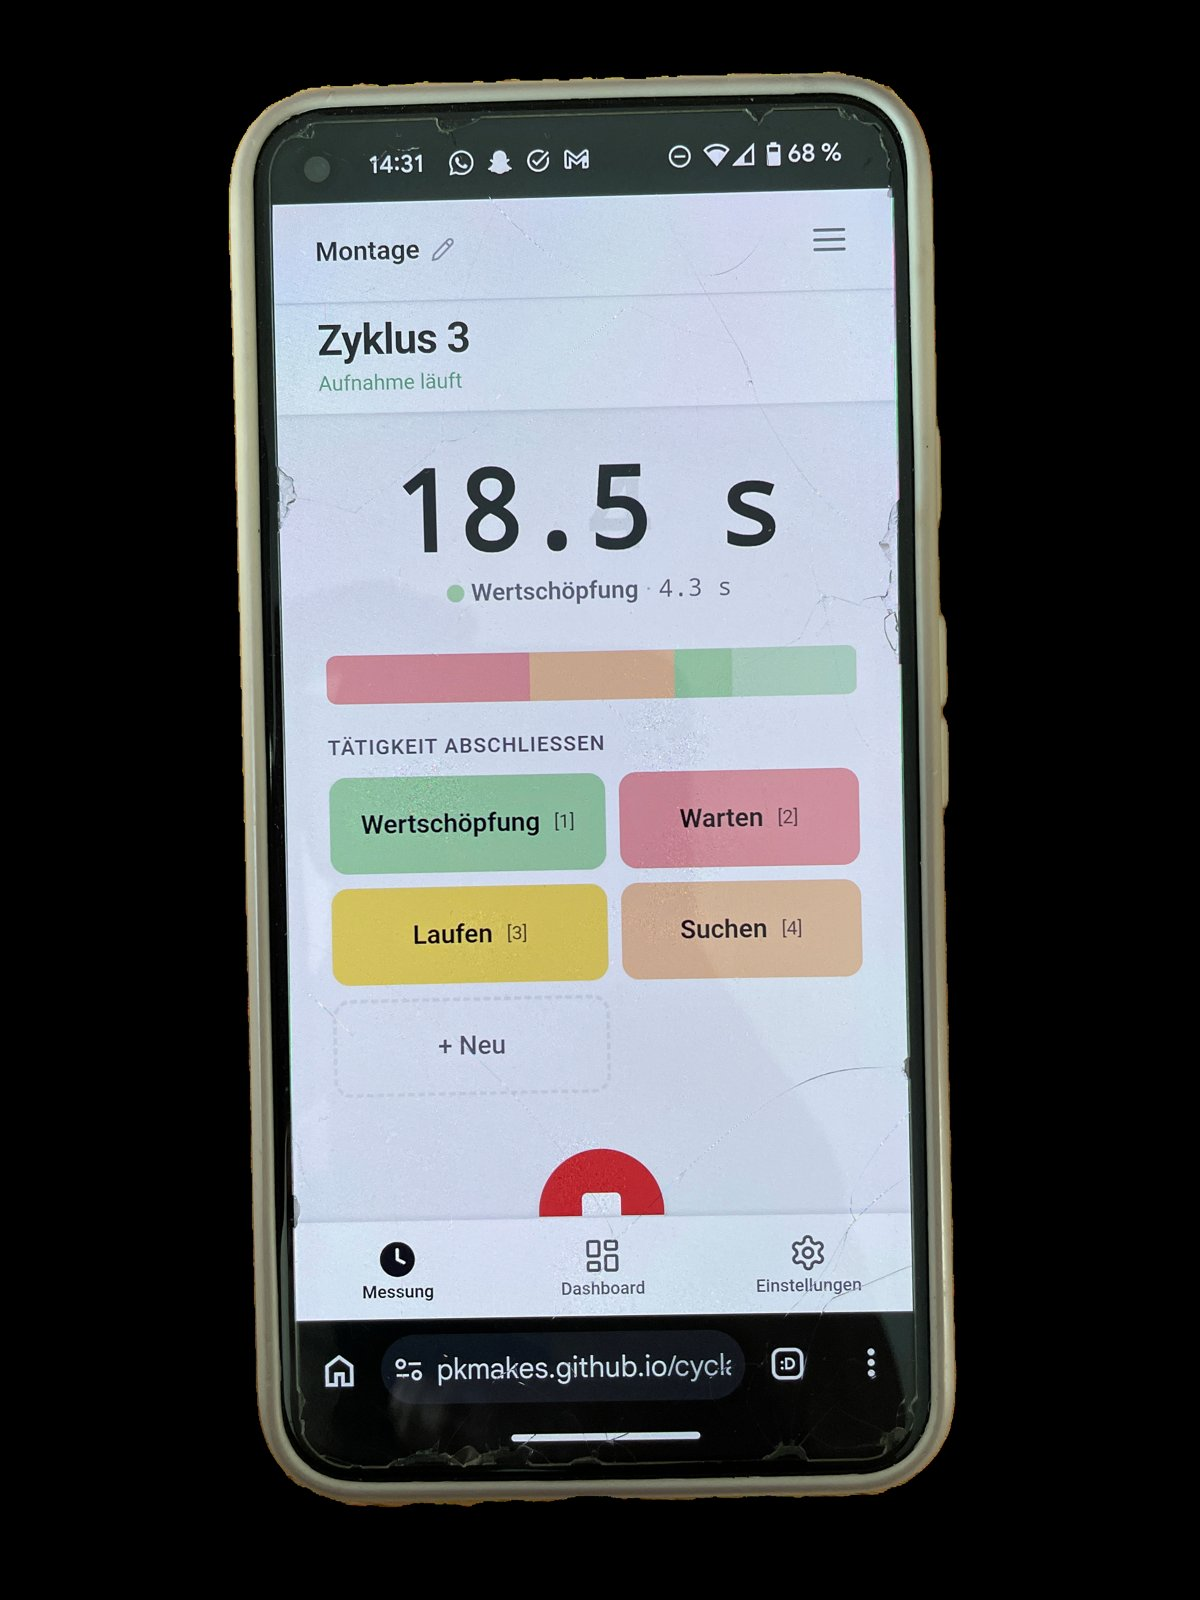
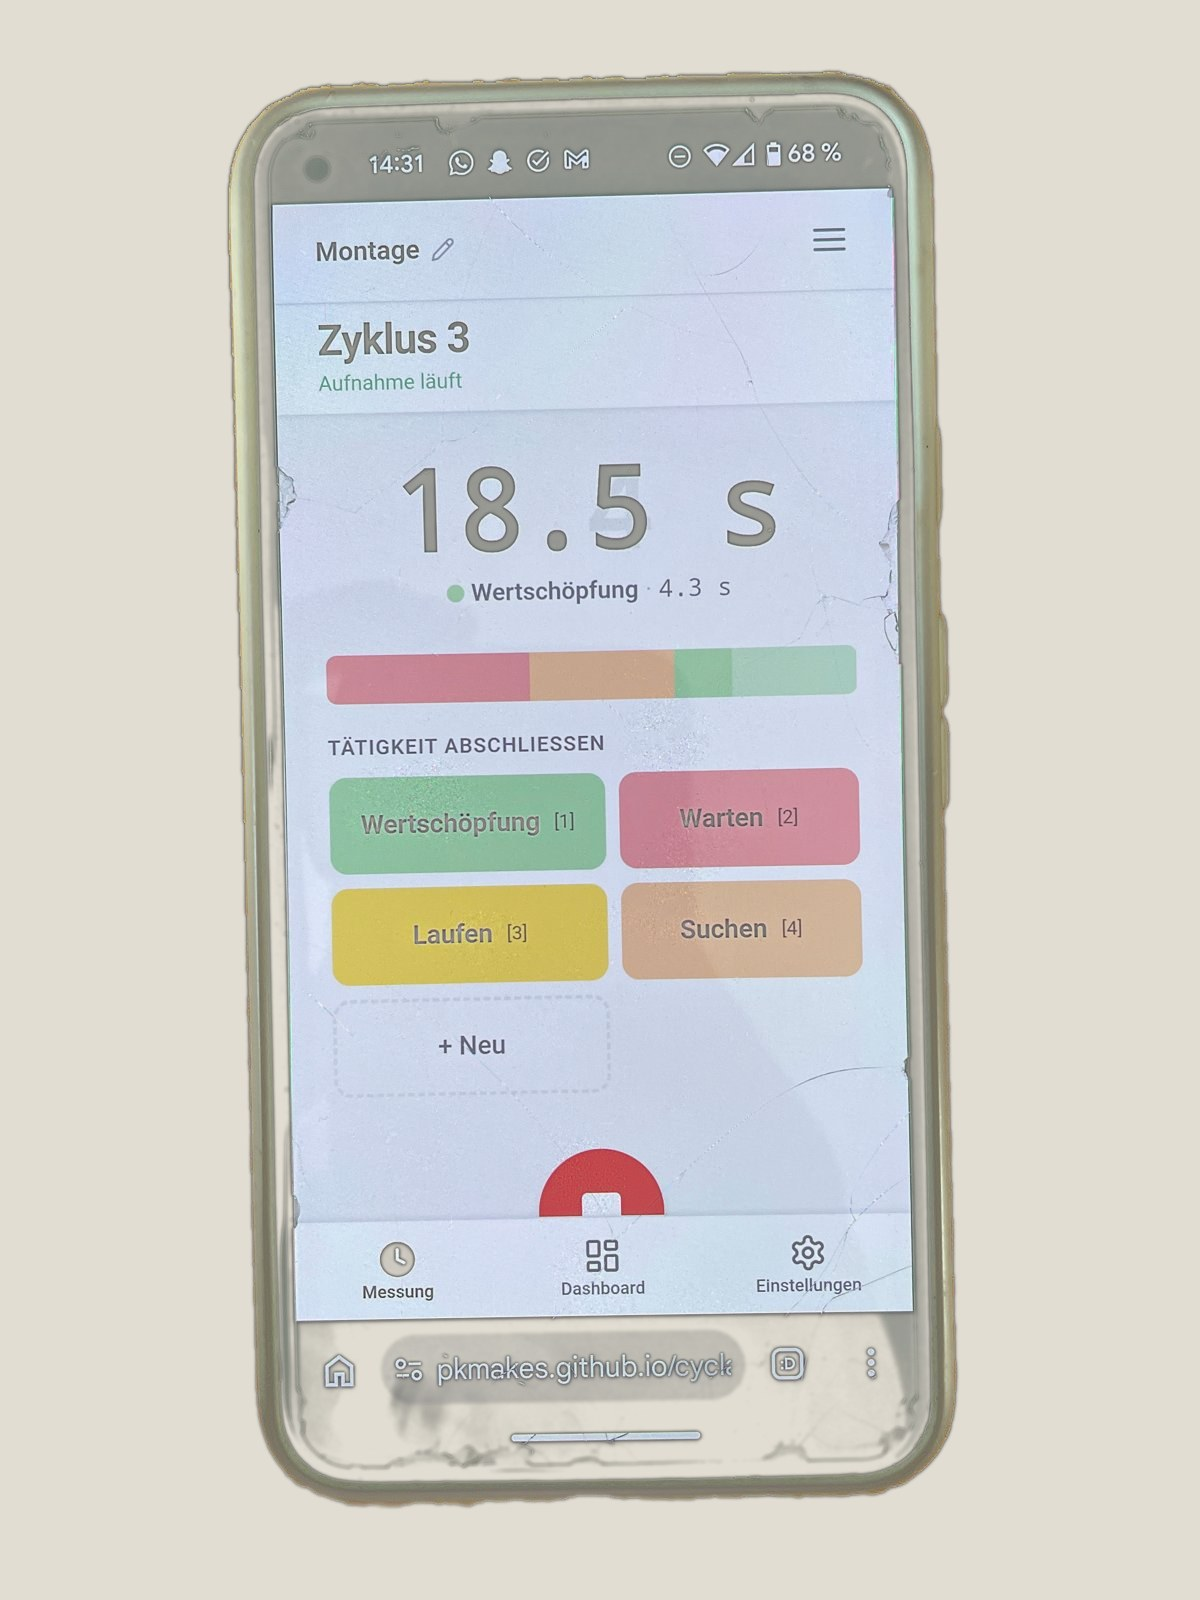
Featured-Kachel klickbar (verlinkt auf Projektseite); Carousel-Hintergrund auf #e1ddd2; schwarzen Hintergrund in Objekt 0.jpg (Projekt_2) korrigiert, der beim vorherigen Komprimieren durch fehlerhafte Alpha-Entfernung entstanden war

diff --git a/index.html b/index.html
@@ -111,6 +111,14 @@ function renderFeatured(p){
       ${cta}
     </div>
     <div class="img">${img}</div>`;
+
+  // Ganze Kachel klickbar machen (führt zur Projektseite) – aber echte Links
+  // innerhalb der Kachel (z.B. der externe CTA-Link) sollen normal funktionieren.
+  featuredEl.style.cursor = "pointer";
+  featuredEl.onclick = (e) => {
+    if(e.target.closest("a")) return;
+    window.location.href = "projekt.html?p=" + encodeURIComponent(p.folder);
+  };
 }
 
 function currentList(){

diff --git a/style.css b/style.css
@@ -95,9 +95,9 @@ button{font-family:inherit}
 .detail .desc{font:400 16px/1.65 var(--sans);max-width:760px;margin-bottom:28px;white-space:pre-line}
 .detail .cta{font:600 13px var(--sans);text-decoration:none;border-bottom:2px solid var(--red);padding-bottom:3px}
 
-.carousel{position:relative;border-top:2px solid var(--ink);background:var(--panel);outline:none}
-.carousel .cslides{position:relative;height:clamp(300px,55vw,560px)}
-.carousel .cslide{position:absolute;inset:0;width:100%;height:100%;object-fit:contain;opacity:0;transition:opacity .25s ease;pointer-events:none}
+.carousel{position:relative;border-top:2px solid var(--ink);background:#e1ddd2;outline:none}
+.carousel .cslides{position:relative;height:clamp(300px,55vw,560px);background:#e1ddd2}
+.carousel .cslide{position:absolute;inset:0;width:100%;height:100%;object-fit:contain;background:#e1ddd2;opacity:0;transition:opacity .25s ease;pointer-events:none}
 .carousel .cslide.active{opacity:1;pointer-events:auto}
 .carousel .cnav{position:absolute;top:50%;transform:translateY(-50%);width:44px;height:44px;border:1.5px solid var(--ink);background:var(--paper);color:var(--ink);font:600 20px var(--sans);line-height:1;cursor:pointer;display:flex;align-items:center;justify-content:center;transition:background .15s,color .15s}
 .carousel .cnav:hover{background:var(--red);border-color:var(--red);color:var(--paper)}